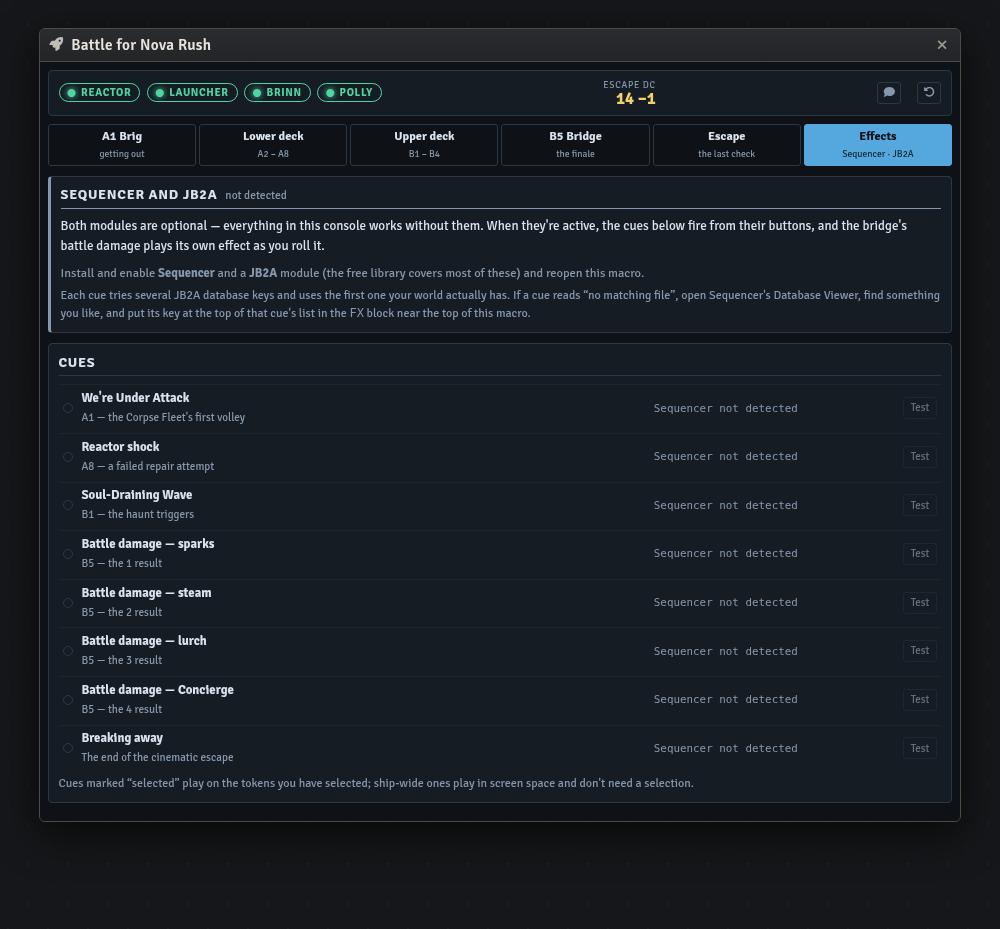
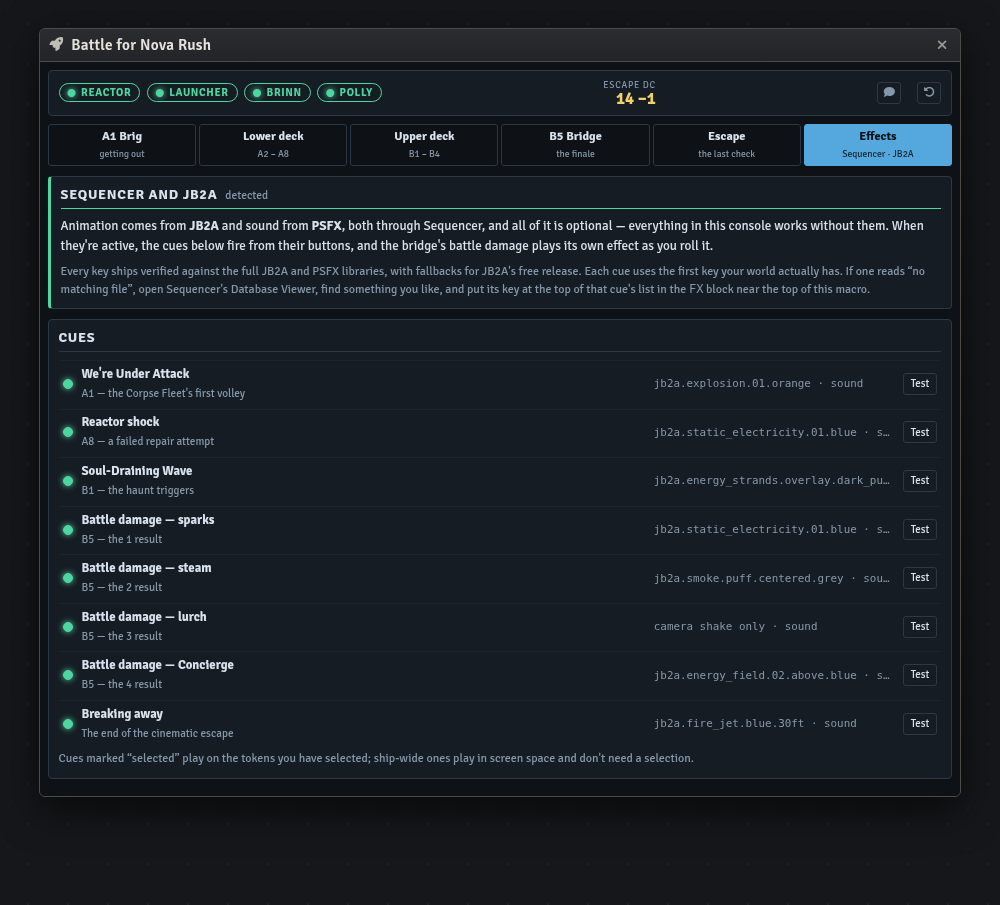
Nova Rush: verified effect keys, and sound from PSFX
Dumped both installed Sequencer databases — 10,052 JB2A keys and 277 PSFX
keys — and replaced the guessed keys with checked ones. Several guesses
were wrong: smoke.puff wanted no numeric suffix, and portal.vortex and
the necromancy loop don't exist under those names at all.

Every cue now carries sound as well as animation. PSFX is a fantasy
library, so the sounds are chosen for what they sound like rather than
what they're named after: a fireball's explosion for a hull hit, Arms of
Hadar for the sinkwell's void tentacles, a gust for a steam rupture.

The harness can now exercise this: a fixture can switch on a recording
Sequencer stand-in that reports jb2a/psfx keys as installed and captures
each built sequence as data. That turned the effect layer from untested
code into asserted behaviour — screen-space fallback when no token is
selected, per-token fan-out when several are, and sound-plus-shake for
the cue that has no art.

diff --git a/macros/battle-for-nova-rush/nova-rush-console.js b/macros/battle-for-nova-rush/nova-rush-console.js
@@ -27,57 +27,65 @@ const UUIDS = {
 };
 
 /* ------------------------------------------------------------------- FX
-   Sequencer + JB2A, both optional. Every cue lists several database keys and
-   the first one that actually exists in this world is used, because the free
-   and Patreon JB2A modules carry different subsets. Swap in your own keys here
-   if you'd rather — the FX tab has a Test button for each cue, and the
-   Sequencer Database Viewer (under the module's settings) lists everything
-   installed. With neither module present the console just says so and carries
-   on; nothing else depends on this. */
+   Sequencer drives two optional libraries: JB2A for the animation and PSFX
+   (Peri's Sound Effects) for the sound. Every key below was checked against
+   the installed databases, so the first entry in each list is the one that
+   plays on a full JB2A install; the rest are fallbacks for the free library.
+   PSFX is a fantasy library rather than a science-fiction one, so the sounds
+   are chosen for what they sound like, not what they're named after — the
+   fireball's explosion for a hull hit, Arms of Hadar for the sinkwell's void
+   tentacles, a gust for a ruptured steam pipe.
+
+   Both modules are optional. With neither installed nothing here fires and
+   nothing else in the console is affected. The Effects tab reports what
+   resolved and can test each cue. */
 const FX = {
   attack: {
     label: "We're Under Attack", where: "A1 — the Corpse Fleet's first volley",
-    files: ["jb2a.explosion.01.orange", "jb2a.explosion.02.orange", "jb2a.impact.orange.0"],
+    files: ["jb2a.explosion.01.orange", "jb2a.impact.orange", "jb2a.explosion.02.orange"],
+    sound: "psfx.3rd-level-spells.fireball.v1.001.explosion",
     scale: 1.8, screen: true, shake: { duration: 1000, strength: 28 }
   },
   reactor: {
     label: "Reactor shock", where: "A8 — a failed repair attempt",
-    files: ["jb2a.static_electricity.02.blue", "jb2a.static_electricity.01.blue",
-            "jb2a.chain_lightning.primary.blue", "jb2a.lightning_ball.blue"],
+    files: ["jb2a.static_electricity.01.blue", "jb2a.lightning_ball.blue"],
+    sound: "psfx.cantrips.shocking-grasp.v1.001",
     scale: 1.0, target: "selected"
   },
   sinkwell: {
     label: "Soul-Draining Wave", where: "B1 — the haunt triggers",
     files: ["jb2a.energy_strands.overlay.dark_purple.01",
-            "jb2a.magic_signs.rune.necromancy.loop.dark_purple",
-            "jb2a.impact.dark_purple.0", "jb2a.explosion.01.purple"],
+            "jb2a.magic_signs.circle.02.necromancy.intro.dark_purple"],
+    sound: "psfx.1st-level-spells.arms-of-hadar.v1.001",
     scale: 1.4, target: "selected", shake: { duration: 600, strength: 12 }
   },
   sparks: {
     label: "Battle damage — sparks", where: "B5 — the 1 result",
-    files: ["jb2a.static_electricity.01.blue", "jb2a.chain_lightning.primary.blue"],
+    files: ["jb2a.static_electricity.01.blue", "jb2a.lightning_ball.blue"],
+    sound: "psfx.impacts.magicaleffects.lightning",
     scale: 0.9, target: "selected"
   },
   steam: {
     label: "Battle damage — steam", where: "B5 — the 2 result",
-    files: ["jb2a.smoke.puff.centered.grey.0", "jb2a.smoke.puff.centered.dark_black.0",
-            "jb2a.fog_cloud.01.white"],
+    files: ["jb2a.smoke.puff.centered.grey", "jb2a.smoke.puff.centered.dark_black"],
+    sound: "psfx.cantrips.gust.v1",
     scale: 1.3, target: "selected"
   },
   lurch: {
     label: "Battle damage — lurch", where: "B5 — the 3 result",
-    files: [], shake: { duration: 800, strength: 20 }
+    files: [], sound: "psfx.impacts.bludgeoning.v1",
+    shake: { duration: 800, strength: 20 }
   },
   holo: {
     label: "Battle damage — Concierge", where: "B5 — the 4 result",
-    files: ["jb2a.energy_field.02.above.blue", "jb2a.shield_themed.above.holy.blue.01",
-            "jb2a.magic_signs.circle.02.illusion.loop.blue"],
+    files: ["jb2a.energy_field.02.above.blue", "jb2a.magic_signs.circle.02.divination.intro.blue"],
+    sound: "psfx.cantrips.dancing-lights.v1.001",
     scale: 0.8, target: "selected"
   },
   escape: {
     label: "Breaking away", where: "The end of the cinematic escape",
-    files: ["jb2a.portal.vortex.loop.blue", "jb2a.energy_beam.normal.blue.03",
-            "jb2a.explosion.01.blue"],
+    files: ["jb2a.fire_jet.blue.30ft", "jb2a.portals.horizontal.ring.blue"],
+    sound: "psfx.2nd-level-spells.misty-step.v1.complete.generic",
     scale: 1.6, screen: true, shake: { duration: 700, strength: 14 }
   }
 };
@@ -585,13 +593,22 @@ class NovaRush {
   }
   /* A cue with no art but a shake is still playable; one that needs art and
      has none is not. */
+  resolveSound(key) {
+    const cue = FX[key];
+    if (!cue?.sound || !this.fxReady) return null;
+    const db = globalThis.Sequencer.Database;
+    const exists = typeof db?.entryExists === "function" ? db.entryExists(cue.sound)
+      : typeof db?.getEntry === "function" ? !!db.getEntry(cue.sound) : false;
+    return exists ? cue.sound : null;
+  }
   fxStatus(key) {
     const cue = FX[key];
-    if (!this.fxReady) return { state: "off", detail: "Sequencer not detected" };
+    if (!this.fxReady) return { state: "off", detail: "Sequencer not detected", sound: "" };
     const file = this.resolveFx(key);
-    if (file) return { state: "ok", detail: file };
-    if (!cue.files.length && cue.shake) return { state: "ok", detail: "camera shake only" };
-    return { state: "missing", detail: "no matching JB2A file installed" };
+    const sound = this.resolveSound(key) ? "sound" : cue.sound ? "no sound file" : "";
+    if (file) return { state: "ok", detail: file, sound };
+    if (!cue.files.length && cue.shake) return { state: "ok", detail: "camera shake only", sound };
+    return { state: "missing", detail: "no matching JB2A file installed", sound };
   }
 
   async fx(key) {
@@ -599,11 +616,13 @@ class NovaRush {
     if (!cue) return;
     if (!this.fxReady) return ui.notifications.info("Sequencer isn't active — no effect played.");
     const file = this.resolveFx(key);
-    if (!file && !cue.shake) {
-      return ui.notifications.warn(`No JB2A file found for "${cue.label}". Set your own key in the FX tab's list.`);
+    const sound = this.resolveSound(key);
+    if (!file && !cue.shake && !sound) {
+      return ui.notifications.warn(`Nothing installed for "${cue.label}". Set your own key in the FX block at the top of this macro.`);
     }
     try {
       const seq = new globalThis.Sequence();
+      if (sound) seq.sound().file(sound);
       if (file) {
         const targets = cue.target === "selected" ? (canvas?.tokens?.controlled ?? []) : [];
         if (cue.screen || !targets.length) {
@@ -1200,9 +1219,9 @@ class NRApp extends BaseApp {
     return `
       <section class="panel" style="--tone:var(--${ready ? "moss" : "muted"})">
         <h3>Sequencer and JB2A <small>${ready ? "detected" : "not detected"}</small></h3>
-        <p class="text">Both modules are optional — everything in this console works without them. When they're active, the cues below fire from their buttons, and the bridge's battle damage plays its own effect as you roll it.</p>
+        <p class="text">Animation comes from <b>JB2A</b> and sound from <b>PSFX</b>, both through Sequencer, and all of it is optional — everything in this console works without them. When they're active, the cues below fire from their buttons, and the bridge's battle damage plays its own effect as you roll it.</p>
         ${ready ? "" : `<p class="note">Install and enable <b>Sequencer</b> and a <b>JB2A</b> module (the free library covers most of these) and reopen this macro.</p>`}
-        <p class="hint">Each cue tries several JB2A database keys and uses the first one your world actually has. If a cue reads “no matching file”, open Sequencer's Database Viewer, find something you like, and put its key at the top of that cue's list in the <code>FX</code> block near the top of this macro.</p>
+        <p class="hint">Every key ships verified against the full JB2A and PSFX libraries, with fallbacks for JB2A's free release. Each cue uses the first key your world actually has. If one reads “no matching file”, open Sequencer's Database Viewer, find something you like, and put its key at the top of that cue's list in the <code>FX</code> block near the top of this macro.</p>
       </section>
 
       <section class="panel">
@@ -1214,7 +1233,7 @@ class NRApp extends BaseApp {
               <div class="fxrow">
                 <span class="dot ${st.state}"></span>
                 <div class="fxname"><b>${cue.label}</b><small>${cue.where}</small></div>
-                <code class="fxfile">${st.detail}</code>
+                <code class="fxfile">${st.detail}${st.sound ? ` · ${st.sound}` : ""}</code>
                 <button type="button" class="opt sm" data-act="fx" data-k="${k}" ${ro || !ready ? "disabled" : ""}>Test</button>
               </div>`;
           }).join("")}

diff --git a/tools/preview/foundry-stub.js b/tools/preview/foundry-stub.js
@@ -128,6 +128,40 @@ globalThis.fromUuid = async (uuid) => ({
   sheet: { render: () => console.log("[sheet]", uuid) }
 });
 
+/* Opt-in Sequencer stand-in, switched on by a fixture setting
+   `__previewSequencer`. It reports any jb2a./psfx. key as installed and
+   records what a sequence was built from, so effect code paths can be
+   exercised and asserted without the real modules. Never on by default —
+   a macro's "no Sequencer" branch needs testing too. */
+if (globalThis.__previewSequencer) {
+  const calls = [];
+  globalThis.__sequences = calls;
+  const section = (kind, entry) => {
+    const self = {
+      file: (f) => { entry.file = f; return self; },
+      atLocation: (t) => { entry.at = t?.name ?? "location"; return self; },
+      scale: (n) => { entry.scale = n; return self; },
+      screenSpace: () => { entry.screenSpace = true; return self; },
+      screenSpaceAnchor: (a) => { entry.anchor = a; return self; },
+      shake: (o) => { entry.shake = o; return self; }
+    };
+    entry.kind = kind;
+    return self;
+  };
+  globalThis.Sequence = class Sequence {
+    constructor() { this.parts = []; calls.push(this.parts); }
+    effect() { const e = {}; this.parts.push(e); return section("effect", e); }
+    sound() { const e = {}; this.parts.push(e); return section("sound", e); }
+    canvasPan() { const e = {}; this.parts.push(e); return section("canvasPan", e); }
+    async play() { return this; }
+  };
+  globalThis.Sequencer = {
+    Database: { entryExists: (k) => /^(jb2a|psfx)\./.test(k) }
+  };
+  game.modules = { get: (id) => ({ id, active: ["sequencer", "jb2a_patreon", "psfx"].includes(id) }) };
+  globalThis.canvas = { tokens: { controlled: [] }, dimensions: { width: 4000, height: 3000 }, scene: {} };
+}
+
 globalThis.foundry = {
   utils: {
     escapeHTML: (s) => String(s).replace(/[&<>"']/g, c =>
@@ -211,6 +245,7 @@ globalThis.Application = ApplicationV2;
    show a console mid-session rather than an untouched one. */
 if (globalThis.__previewSeed) {
   for (const [id, value] of Object.entries(globalThis.__previewSeed)) {
+    if (id.startsWith("__")) continue;
     settingStore.set(id, value);
     settingDefs.set(id, { scope: "world", config: false, type: Object, default: null });
   }

diff --git a/tools/preview/index.html b/tools/preview/index.html
@@ -88,6 +88,8 @@
     }
     await load("/tools/preview/fixtures.js");
     if (seed && globalThis.FIXTURES?.[seed]) globalThis.__previewSeed = globalThis.FIXTURES[seed];
+    /* Fixtures may ask for the Sequencer stand-in; see foundry-stub.js. */
+    if (globalThis.__previewSeed?.__sequencer) globalThis.__previewSequencer = true;
     await load("/tools/preview/foundry-stub.js");
     await load(`/macros/${macro}`);
 

diff --git a/tools/preview/fixtures.js b/tools/preview/fixtures.js
@@ -207,8 +207,10 @@ globalThis.FIXTURES = {
     }
   },
 
-  /* The effects tab, with no Sequencer in the harness. */
+  /* The effects tab with the Sequencer stand-in switched on, so the cue list
+     shows what it looks like once the modules are installed. */
   "novarush-fx": {
+    __sequencer: true,
     "world.sf2eNovaRush": {
       tab: "fx",
       repairs: { reactor: true, launcher: true },

diff --git a/macros/battle-for-nova-rush/README.md b/macros/battle-for-nova-rush/README.md
@@ -70,20 +70,39 @@ result rewinds the tracks exactly.
 
 ![The cinematic escape, two rounds in](../../screenshots/battle-for-nova-rush/nova-rush-scene.png)
 
-## Effects — Sequencer and JB2A
+## Effects — Sequencer, JB2A, and PSFX
 
-Both modules are **optional**. Without them every button still works and the console simply
-says the effect didn't play.
+Animation comes from **JB2A**, sound from **PSFX**, both driven through **Sequencer**. All of
+it is **optional**: without the modules every button still works and the console says the
+effect didn't play.
 
-With them, eight cues are available: the Corpse Fleet's first hit in the brig, the reactor's
-shock, the sinkwell's wave, each of the four battle-damage results on the bridge (these fire
-automatically as you roll), and the breakaway at the end of the cinematic escape.
+Eight cues, each with an animation and a sound:
 
-JB2A's free and Patreon libraries carry different files, so each cue lists several Sequencer
-database keys and uses the first one your world actually has. The **Effects** tab shows which
-key resolved for each cue — or flags the ones that found nothing — and gives you a Test
-button. To substitute your own, open Sequencer's Database Viewer, find a file, and put its
-key at the top of that cue's list in the `FX` block near the top of the macro.
+| Cue | Fires at | Animation | Sound |
+|---|---|---|---|
+| We're Under Attack | A1, the first volley | `jb2a.explosion.01.orange` | fireball explosion |
+| Reactor shock | A8, a failed repair | `jb2a.static_electricity.01.blue` | shocking grasp |
+| Soul-Draining Wave | B1, the haunt triggers | `jb2a.energy_strands.overlay.dark_purple.01` | arms of hadar |
+| Battle damage — sparks | B5, the 1 result | `jb2a.static_electricity.01.blue` | lightning impact |
+| Battle damage — steam | B5, the 2 result | `jb2a.smoke.puff.centered.grey` | gust |
+| Battle damage — lurch | B5, the 3 result | camera shake | bludgeoning impact |
+| Battle damage — Concierge | B5, the 4 result | `jb2a.energy_field.02.above.blue` | dancing lights |
+| Breaking away | the end of the escape | `jb2a.fire_jet.blue.30ft` | misty step |
+
+The four battle-damage cues fire automatically as you roll the d4 — no extra click.
+
+PSFX is a fantasy library rather than a science-fiction one, so its sounds are picked for what
+they sound like rather than what they're named after: a fireball's explosion for a hull hit,
+Arms of Hadar for the sinkwell's void tentacles, a gust for a ruptured steam pipe.
+
+Every key ships **verified against the full JB2A and PSFX databases**, with fallbacks for
+JB2A's free release. Each cue uses the first key your world actually has; the **Effects** tab
+reports which one resolved, flags any that found nothing, and gives you a Test button. To
+substitute your own, open Sequencer's Database Viewer and put its key at the top of that cue's
+list in the `FX` block near the top of the macro.
+
+Cues aimed at tokens play on whatever you have selected, and fall back to a screen-space
+effect when nothing is selected, so nothing is ever silently skipped.
 
 ![The effects tab](../../screenshots/battle-for-nova-rush/nova-rush-fx.png)
 

diff --git a/CHANGELOG.md b/CHANGELOG.md
@@ -7,8 +7,8 @@
   check's modifiers calculated and a per-round battle damage roller for the bridge fight
 - Nova Rush: the escape can be run as a Cinematic Starship Scene — six roles, a Victory
   Point goal, and a hull clock — alongside the printed single-check version
-- Nova Rush: optional Sequencer / JB2A effect cues, resolved against whichever JB2A library
-  is installed, with a tester
+- Nova Rush: optional Sequencer effect cues — JB2A animation plus PSFX sound, every key
+  verified against the real databases, with a tester and graceful fallbacks
 - Campaign Status Tracker — a checklist across all thirteen chapters, with a Threads view
   that flags a prerequisite the moment the table reaches the chapter that needs it, a loot
   ledger of every named treasure, and per-chapter scene and cue lists

diff --git a/tools/preview/README.md b/tools/preview/README.md
@@ -43,6 +43,14 @@ macro, just talking to a fake Foundry. Settings writes and chat messages go to t
 2. Add an entry to `SHOTS` in `capture.py`.
 3. Run the capture and commit the PNG.
 
+## Testing effect code
+
+Macros that drive Sequencer can be exercised without the real modules. Set `__sequencer: true`
+on a fixture and the stub installs a recording stand-in: it reports any `jb2a.` or `psfx.` key
+as installed, and every sequence built is pushed to `globalThis.__sequences` as plain data, so
+a test can assert what a cue actually constructed. It is off by default, because the "no
+Sequencer installed" branch needs testing too.
+
 ## Limits
 
 This is a preview harness, not an emulator. It knows nothing about actors beyond the four
